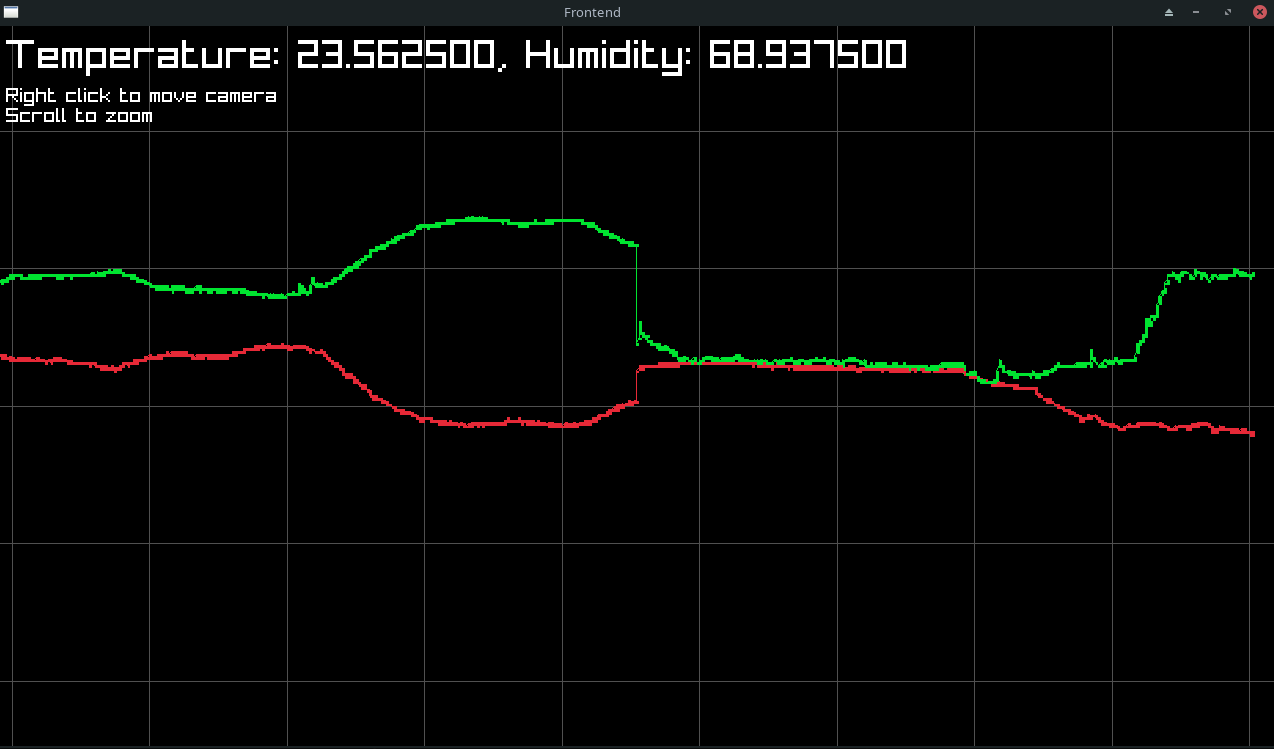
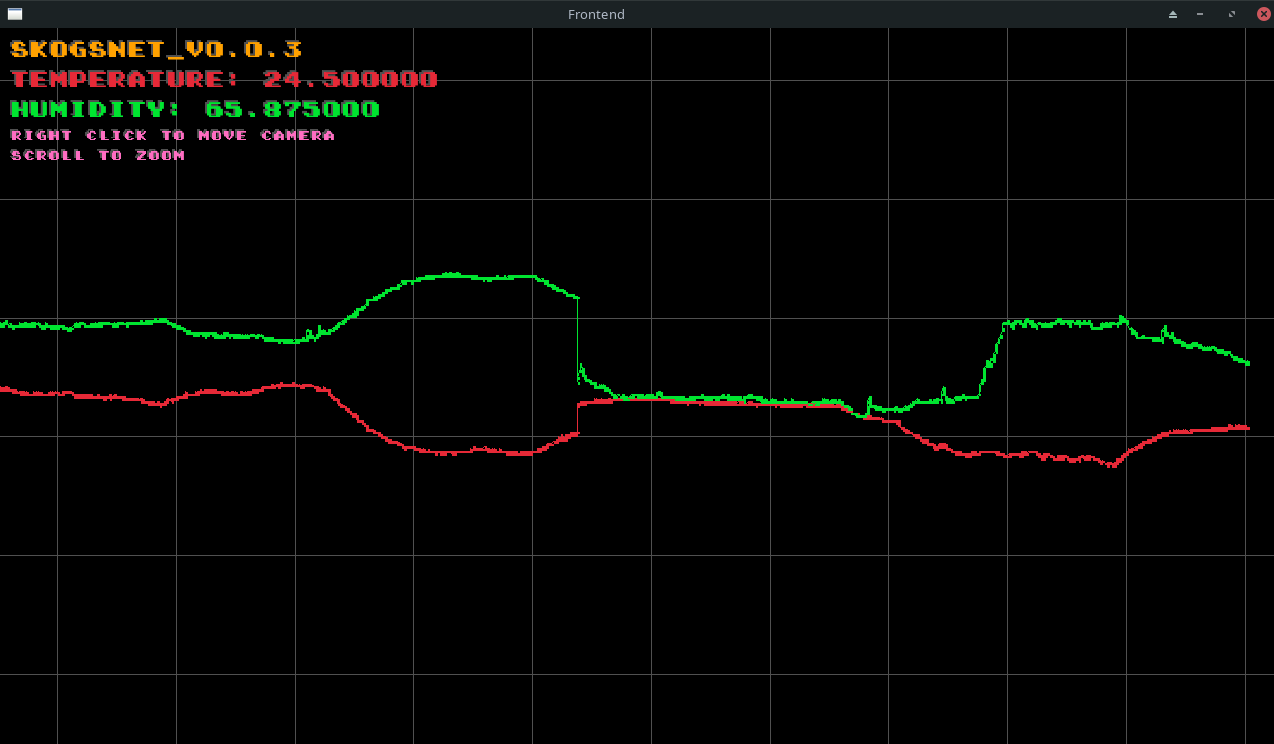
New look

diff --git a/raylib_frontend/Frontend.cpp b/raylib_frontend/Frontend.cpp
@@ -8,6 +8,7 @@ global_variable i64 CPUMemory = 0L;
 usize DataPointCount = 0;
 const char *DataFilePath = "./output.dat";
 Camera2D MainCamera = {0};
+Font MainFont = {0};
 
 struct DataPoint
 {
@@ -269,15 +270,33 @@ GameRender(f32 DeltaTime)
 
     EndMode2D();
 
+    const char *ProgramVersion = "Skogsnet_v0.0.3";
+    DrawTextEx(MainFont, ProgramVersion, {10, 10}, 20, 2, DARKGRAY);
+    // Shadow in dark pink
+    DrawTextEx(MainFont, ProgramVersion, {12, 12}, 20, 2, ORANGE);
+
     DataPoint *DataPoint = &DataPoints[DataPointCount - 1];
-    char Text[256];
-    sprintf(Text, "Temperature: %f, Humidity: %f", DataPoint->TemperatureCelsius, DataPoint->HumidityPercent);
-    DrawText(Text, 10, 10, 40, WHITE);
+    char TempText[256];
+    sprintf(TempText, "Temperature: %f", DataPoint->TemperatureCelsius);
+    DrawTextEx(MainFont, TempText, {10, 40}, 20, 2, DARKGRAY);
+    // Shadow in dark pink
+    DrawTextEx(MainFont, TempText, {12, 42}, 20, 2, RED);
+
+    char HumidityText[256];
+    sprintf(HumidityText, "Humidity: %f", DataPoint->HumidityPercent);
+    DrawTextEx(MainFont, HumidityText, {10, 70}, 20, 2, DARKGRAY);
+    // Shadow in dark pink
+    DrawTextEx(MainFont, HumidityText, {12, 72}, 20, 2, GREEN);
 
     // Info text small
     // "Right click to move camera", "Scroll to zoom"
-    DrawText("Right click to move camera", 10, 60, 20, WHITE);
-    DrawText("Scroll to zoom", 10, 80, 20, WHITE);
+    DrawTextEx(MainFont, "Right click to move camera", (Vector2){10, 100}, 12, 2, DARKGRAY);
+    // Shadow in dark pink
+    DrawTextEx(MainFont, "Right click to move camera", (Vector2){12, 102}, 12, 2, PINK);
+
+    DrawTextEx(MainFont, "Scroll to zoom", (Vector2){10, 120}, 12, 2, DARKGRAY);
+    // Shadow in dark pink
+    DrawTextEx(MainFont, "Scroll to zoom", (Vector2){12, 122}, 12, 2, PINK);
 
     if (Debug)
     {
@@ -331,6 +350,7 @@ int main(int argc, char **argv)
     }
 
     MainCamera.zoom = 1.0f;
+    MainFont = LoadFontEx("./build/fonts/Super Mario Bros. 2.ttf", 32, 0, 250);
 
     DataPoints = (DataPoint *)calloc(10000000ULL, sizeof(DataPoint));
     CPUMemory += 10000000ULL * sizeof(DataPoint);

diff --git a/README.md b/README.md
@@ -32,7 +32,7 @@ Building and running the raylib frontend
 ./raylib_frontend/build.sh&
 
 Building the program
-clang -Wall -g -std=c++11 -fopenmp -I/usr/include -o ./build/skogsnet_v0.0.2 ./code/PID.cpp ./code/skogsnet.cpp -L /usr/lib -fopenmp -lstdc++ -lm
+clang -Wall -g -std=c++11 -fopenmp -I/usr/include -o ./build/skogsnet_v0.0.3 ./code/PID.cpp ./code/skogsnet.cpp -L /usr/lib -fopenmp -lstdc++ -lm
 Compiling raylib_frontend
 
 -- Testing if -Werror=pointer-arith can be used -- compiles
@@ -53,9 +53,9 @@ make[1]: Entering directory '/home/avic/projects/Skogsnet/build'
 [ 70%] Built target glfw
 [ 94%] Built target raylib
 [ 97%] Building CXX object CMakeFiles/Frontend.dir/Frontend.cpp.o
-./build/skogsnet_v0.0.2
+./build/skogsnet_v0.0.3
 	Settings up time measurement and serial communications...
-./build/skogsnet_v0.0.2
+./build/skogsnet_v0.0.3
 
       Trying port: /dev/ttyACM0
 
